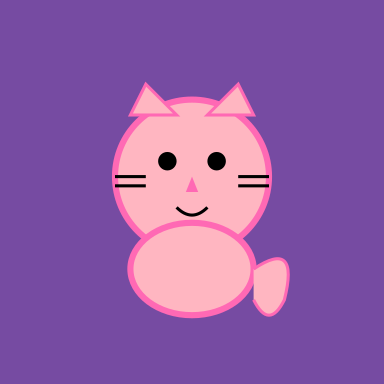
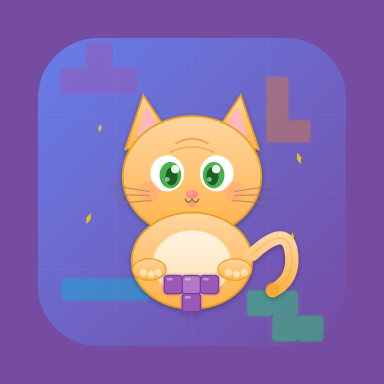
deploy: 2eaf24a384df5e01a86846fe65a5a3b6205e9985

diff --git a/sw.js b/sw.js
@@ -1,1 +1,1 @@
-if(!self.define){let e,i={};const n=(n,c)=>(n=new URL(n+".js",c).href,i[n]||new Promise(i=>{if("document"in self){const e=document.createElement("script");e.src=n,e.onload=i,document.head.appendChild(e)}else e=n,importScripts(n),i()}).then(()=>{let e=i[n];if(!e)throw new Error(`Module ${n} didn’t register its module`);return e}));self.define=(c,o)=>{const s=e||("document"in self?document.currentScript.src:"")||location.href;if(i[s])return;let a={};const r=e=>n(e,s),b={module:{uri:s},exports:a,require:r};i[s]=Promise.all(c.map(e=>b[e]||r(e))).then(e=>(o(...e),a))}}define(["./workbox-5ffe50d4"],function(e){"use strict";self.skipWaiting(),e.clientsClaim(),e.precacheAndRoute([{url:"assets/index-9b99cfc8.css",revision:null},{url:"assets/index-b37cbf60.js",revision:null},{url:"assets/SettingsMenu-af0af1db.js",revision:null},{url:"cat-icon.svg",revision:"368ca359fea638e3bb1796ffa08c0f18"},{url:"icons/icon-128x128.png",revision:"15b2ecf724590428765135dbd766dc81"},{url:"icons/icon-144x144.png",revision:"f595e3798a6d7af8e8cd8cd368fe2ee4"},{url:"icons/icon-192x192.png",revision:"b34d15e40007617adbfb6295952b23fe"},{url:"icons/icon-384x384.png",revision:"eb601b352982e6b015b73328c3c264ba"},{url:"icons/icon-48x48.png",revision:"4267e287d2a5e698da8e5e7131a8f729"},{url:"icons/icon-512x512.png",revision:"ec227abfb6f96388451c2aca3bf83979"},{url:"icons/icon-72x72.png",revision:"663ce56a488b5eda3b5b7b805f79e6aa"},{url:"icons/icon-96x96.png",revision:"c8f57ff06af29057c61a346c7312f18d"},{url:"icons/maskable-icon-128x128.png",revision:"ee4bea721a3c9e5cc839c050d0031441"},{url:"icons/maskable-icon-144x144.png",revision:"5241a451e9b5972ba2179614124c13c8"},{url:"icons/maskable-icon-192x192.png",revision:"f5620c25b077037c52e6249e55b66326"},{url:"icons/maskable-icon-384x384.png",revision:"8642d3dfc6a69ff078e6e794a14d02d2"},{url:"icons/maskable-icon-48x48.png",revision:"74e15398dc29ea7c53366303c5a723b5"},{url:"icons/maskable-icon-512x512.png",revision:"31af070875378d58143709b288d7ed2d"},{url:"icons/maskable-icon-72x72.png",revision:"c79df40719658aed6f7198aa358dadfe"},{url:"icons/maskable-icon-96x96.png",revision:"5ee52fb558a91bfd364726433e461a2e"},{url:"index.html",revision:"636f4e23c872a9c229ff0a4aea7baa1e"},{url:"offline.html",revision:"4904ada49ec330162134d913b659d8fa"},{url:"registerSW.js",revision:"e7addb758b72ce4344087e6a62ecc3a0"},{url:"sounds/game-over.mp3",revision:"aa74ef3a4a64e1391d9b4659141b49ee"},{url:"sounds/line-clear.mp3",revision:"43bd38143b1861356c26c222e8b262f4"},{url:"sounds/meow.mp3",revision:"425d96a117ac159f515ca24ee16400df"},{url:"cat-icon.svg",revision:"368ca359fea638e3bb1796ffa08c0f18"},{url:"sounds/game-over.mp3",revision:"aa74ef3a4a64e1391d9b4659141b49ee"},{url:"sounds/line-clear.mp3",revision:"43bd38143b1861356c26c222e8b262f4"},{url:"sounds/meow.mp3",revision:"425d96a117ac159f515ca24ee16400df"},{url:"icons/icon-128x128.png",revision:"15b2ecf724590428765135dbd766dc81"},{url:"icons/icon-144x144.png",revision:"f595e3798a6d7af8e8cd8cd368fe2ee4"},{url:"icons/icon-192x192.png",revision:"b34d15e40007617adbfb6295952b23fe"},{url:"icons/icon-384x384.png",revision:"eb601b352982e6b015b73328c3c264ba"},{url:"icons/icon-48x48.png",revision:"4267e287d2a5e698da8e5e7131a8f729"},{url:"icons/icon-512x512.png",revision:"ec227abfb6f96388451c2aca3bf83979"},{url:"icons/icon-72x72.png",revision:"663ce56a488b5eda3b5b7b805f79e6aa"},{url:"icons/icon-96x96.png",revision:"c8f57ff06af29057c61a346c7312f18d"},{url:"icons/maskable-icon-128x128.png",revision:"ee4bea721a3c9e5cc839c050d0031441"},{url:"icons/maskable-icon-144x144.png",revision:"5241a451e9b5972ba2179614124c13c8"},{url:"icons/maskable-icon-192x192.png",revision:"f5620c25b077037c52e6249e55b66326"},{url:"icons/maskable-icon-384x384.png",revision:"8642d3dfc6a69ff078e6e794a14d02d2"},{url:"icons/maskable-icon-48x48.png",revision:"74e15398dc29ea7c53366303c5a723b5"},{url:"icons/maskable-icon-512x512.png",revision:"31af070875378d58143709b288d7ed2d"},{url:"icons/maskable-icon-72x72.png",revision:"c79df40719658aed6f7198aa358dadfe"},{url:"icons/maskable-icon-96x96.png",revision:"5ee52fb558a91bfd364726433e461a2e"},{url:"manifest.webmanifest",revision:"53653e31481481815df24ba9d2bc5018"}],{}),e.cleanupOutdatedCaches(),e.registerRoute(new e.NavigationRoute(e.createHandlerBoundToURL("index.html")))});
+if(!self.define){let e,i={};const n=(n,c)=>(n=new URL(n+".js",c).href,i[n]||new Promise(i=>{if("document"in self){const e=document.createElement("script");e.src=n,e.onload=i,document.head.appendChild(e)}else e=n,importScripts(n),i()}).then(()=>{let e=i[n];if(!e)throw new Error(`Module ${n} didn’t register its module`);return e}));self.define=(c,o)=>{const s=e||("document"in self?document.currentScript.src:"")||location.href;if(i[s])return;let a={};const r=e=>n(e,s),b={module:{uri:s},exports:a,require:r};i[s]=Promise.all(c.map(e=>b[e]||r(e))).then(e=>(o(...e),a))}}define(["./workbox-5ffe50d4"],function(e){"use strict";self.skipWaiting(),e.clientsClaim(),e.precacheAndRoute([{url:"assets/index-9b99cfc8.css",revision:null},{url:"assets/index-b37cbf60.js",revision:null},{url:"assets/SettingsMenu-af0af1db.js",revision:null},{url:"cat-icon.svg",revision:"831b56634cc7f72aac3cd36658cd8254"},{url:"icons/icon-128x128.png",revision:"03c40fa0c9df001c44680e75a206169b"},{url:"icons/icon-144x144.png",revision:"d8a5ce119970b0505ad83cb1a2fce110"},{url:"icons/icon-192x192.png",revision:"f6f75403decfedb1ccde04d72aa635d1"},{url:"icons/icon-384x384.png",revision:"d2c1e503ec66fd6e0470bfe123548dbb"},{url:"icons/icon-48x48.png",revision:"436bf7b468bf8daaeb6850b08efc30a0"},{url:"icons/icon-512x512.png",revision:"b47f00820134865d497a2b140f5873f4"},{url:"icons/icon-72x72.png",revision:"146afa3f881cf63ebc3a0016ac9ce8e4"},{url:"icons/icon-96x96.png",revision:"9e237f4a4ab2ec52c54f57f4968bef1b"},{url:"icons/maskable-icon-128x128.png",revision:"296ad9d0ab45e0a449d310529a19c814"},{url:"icons/maskable-icon-144x144.png",revision:"4c4c681896a408d412e944f7bb535264"},{url:"icons/maskable-icon-192x192.png",revision:"317b337981f343df6d271ef6beb71c5a"},{url:"icons/maskable-icon-384x384.png",revision:"1e0be4bd5940c3c92e817555e212f166"},{url:"icons/maskable-icon-48x48.png",revision:"81a3dc5c416148de9a42d7e42154edc6"},{url:"icons/maskable-icon-512x512.png",revision:"8c34de630889b13336257810f2b225fb"},{url:"icons/maskable-icon-72x72.png",revision:"35cec886cfc469faac78b1609e58fe21"},{url:"icons/maskable-icon-96x96.png",revision:"71d780265115482f160bdbe0694fded2"},{url:"index.html",revision:"636f4e23c872a9c229ff0a4aea7baa1e"},{url:"offline.html",revision:"4904ada49ec330162134d913b659d8fa"},{url:"registerSW.js",revision:"e7addb758b72ce4344087e6a62ecc3a0"},{url:"sounds/game-over.mp3",revision:"aa74ef3a4a64e1391d9b4659141b49ee"},{url:"sounds/line-clear.mp3",revision:"43bd38143b1861356c26c222e8b262f4"},{url:"sounds/meow.mp3",revision:"425d96a117ac159f515ca24ee16400df"},{url:"cat-icon.svg",revision:"831b56634cc7f72aac3cd36658cd8254"},{url:"sounds/game-over.mp3",revision:"aa74ef3a4a64e1391d9b4659141b49ee"},{url:"sounds/line-clear.mp3",revision:"43bd38143b1861356c26c222e8b262f4"},{url:"sounds/meow.mp3",revision:"425d96a117ac159f515ca24ee16400df"},{url:"icons/icon-128x128.png",revision:"03c40fa0c9df001c44680e75a206169b"},{url:"icons/icon-144x144.png",revision:"d8a5ce119970b0505ad83cb1a2fce110"},{url:"icons/icon-192x192.png",revision:"f6f75403decfedb1ccde04d72aa635d1"},{url:"icons/icon-384x384.png",revision:"d2c1e503ec66fd6e0470bfe123548dbb"},{url:"icons/icon-48x48.png",revision:"436bf7b468bf8daaeb6850b08efc30a0"},{url:"icons/icon-512x512.png",revision:"b47f00820134865d497a2b140f5873f4"},{url:"icons/icon-72x72.png",revision:"146afa3f881cf63ebc3a0016ac9ce8e4"},{url:"icons/icon-96x96.png",revision:"9e237f4a4ab2ec52c54f57f4968bef1b"},{url:"icons/maskable-icon-128x128.png",revision:"296ad9d0ab45e0a449d310529a19c814"},{url:"icons/maskable-icon-144x144.png",revision:"4c4c681896a408d412e944f7bb535264"},{url:"icons/maskable-icon-192x192.png",revision:"317b337981f343df6d271ef6beb71c5a"},{url:"icons/maskable-icon-384x384.png",revision:"1e0be4bd5940c3c92e817555e212f166"},{url:"icons/maskable-icon-48x48.png",revision:"81a3dc5c416148de9a42d7e42154edc6"},{url:"icons/maskable-icon-512x512.png",revision:"8c34de630889b13336257810f2b225fb"},{url:"icons/maskable-icon-72x72.png",revision:"35cec886cfc469faac78b1609e58fe21"},{url:"icons/maskable-icon-96x96.png",revision:"71d780265115482f160bdbe0694fded2"},{url:"manifest.webmanifest",revision:"53653e31481481815df24ba9d2bc5018"}],{}),e.cleanupOutdatedCaches(),e.registerRoute(new e.NavigationRoute(e.createHandlerBoundToURL("index.html")))});
